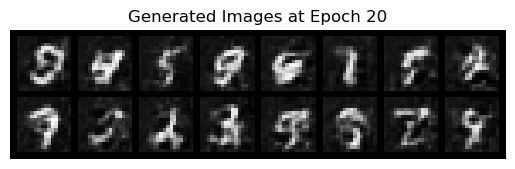
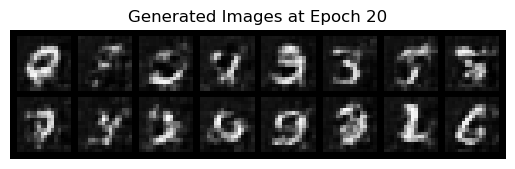
Week3 final output

diff --git a/Week3/Code2.py b/Week3/Code2.py
@@ -18,6 +18,7 @@ import matplotlib.pyplot as plt
 
 import torchvision.utils as vutils
 
+import torch.nn.utils as nn_utils
 
 
 class CustomMNISTDataset(Dataset):
@@ -30,7 +31,7 @@ class CustomMNISTDataset(Dataset):
 
         self.image_paths = []
 
-        
+
 
         for i in range(10):
 
@@ -40,17 +41,17 @@ class CustomMNISTDataset(Dataset):
 
                 self.image_paths.append(img_file)
 
-                
+
 
         print(f'Found {len(self.image_paths)} images')
 
-        
+
 
     def __len__(self):
 
         return len(self.image_paths)
 
-    
+
 
     def __getitem__(self, index):
 
@@ -58,19 +59,19 @@ class CustomMNISTDataset(Dataset):
 
         image = Image.open(img_path).convert("L")
 
-        
+
 
         if self.transform is not None:
 
             image = self.transform(image)
 
-        
 
-        return image    
 
-    
+        return image
 
-    
+
+
+
 
 class Generator(nn.Module):
 
@@ -78,29 +79,31 @@ class Generator(nn.Module):
 
         super(Generator, self).__init__()
 
-            
+
 
         self.conv1 = nn.ConvTranspose2d(z_dim, feature_g*4, kernel_size=4, stride=1, padding=0, bias=False)
 
         self.bn1 = nn.InstanceNorm2d(feature_g*4)
+        #self.gn1 = nn.GroupNorm(8, feature_g*4)
 
         self.r1 = nn.ReLU(True)
 
-        
+
 
         self.conv2 = nn.ConvTranspose2d(feature_g*4, feature_g, kernel_size=4, stride=2, padding=1, bias=False)
 
         self.bn2 = nn.InstanceNorm2d(feature_g)
+        #self.gn2 = nn.GroupNorm(8, feature_g)
 
         self.r2 = nn.ReLU(True)
 
-        
+
 
         self.conv3 = nn.ConvTranspose2d(feature_g, img_channels, kernel_size=4, stride=2, padding=1, bias=False)
 
         self.t = nn.Tanh()
 
-        
+
 
     def forward(self, x):
 
@@ -124,11 +127,11 @@ class Generator(nn.Module):
 
         return x
 
-    
 
-    
 
-    
+
+
+
 
 class Discriminator(nn.Module):
 
@@ -136,29 +139,31 @@ class Discriminator(nn.Module):
 
         super(Discriminator, self).__init__()
 
-            
+
 
         self.conv1 = nn.Conv2d(img_channels, feature_d, kernel_size=4, stride=2, padding=1, bias=False)
 
         self.bn1 = nn.BatchNorm2d(feature_d)
+        #self.gn1 = nn.GroupNorm(2, feature_d)
 
         self.r1 = nn.LeakyReLU(True)
 
-        
+
 
         self.conv2 = nn.Conv2d(feature_d, feature_d*4, kernel_size=4, stride=2, padding=1, bias=False)
 
         self.bn2 = nn.BatchNorm2d(feature_d*4)
+        #self.gn2 = nn.GroupNorm(2, feature_d*4)
 
         self.r2 = nn.ReLU(True)
 
-        
+
 
         self.conv3 = nn.Conv2d(feature_d*4, 1, kernel_size=3, stride=2, padding=0, bias=False)
 
         self.t = nn.Sigmoid()
 
-        
+
 
     def forward(self, x):
 
@@ -181,7 +186,32 @@ class Discriminator(nn.Module):
         # print("----------------------")
 
         return x
+"""
+class Discriminator(nn.Module):
+    def __init__(self, img_channels=1, feature_d=64):
+        super(Discriminator, self).__init__()
 
+        self.conv1 = nn_utils.spectral_norm(
+            nn.Conv2d(img_channels, feature_d, kernel_size=4, stride=2, padding=1, bias=False)
+        )
+        self.r1 = nn.LeakyReLU(0.2, inplace=True)
+
+        self.conv2 = nn_utils.spectral_norm(
+            nn.Conv2d(feature_d, feature_d * 4, kernel_size=4, stride=2, padding=1, bias=False)
+        )
+        self.r2 = nn.ReLU(True)
+
+        self.conv3 = nn_utils.spectral_norm(
+            nn.Conv2d(feature_d * 4, 1, kernel_size=3, stride=2, padding=0, bias=False)
+        )
+        self.t = nn.Sigmoid()
+
+    def forward(self, x):
+        x = self.r1(self.conv1(x))
+        x = self.r2(self.conv2(x))
+        x = self.t(self.conv3(x))
+        return x
+"""
 
 
 data_dir = './data/train/'
@@ -194,15 +224,19 @@ os.makedirs(result_dir, exist_ok=True)
 
 # 4. 하이퍼파라미터 정의
 
-batch_size = 64
+# batch_size = 64
+batch_size = 32
 
-lr = 0.0001
+# lr = 0.0001
+lr = 0.0002
 
-z_dim = 100
+# z_dim = 100
+z_dim = 25
 
+# device = "cuda" if torch.cuda.is_available() else "cpu"
 device = "cuda" if torch.cuda.is_available() else "cpu"
 
-epochs = 20  # 훈련 에포크 수
+epochs = 100  # 훈련 에포크 수
 
 
 
@@ -276,6 +310,8 @@ def show_generated_images(generator, num_images=64, epoch=0):
 
         plt.title(f'Generated Images at Epoch {epoch}')
 
+        plt.show()
+
         plt.savefig(f'{result_dir}image.png', pad_inches=0.1, bbox_inches='tight')
 
         plt.close()
@@ -294,7 +330,7 @@ for epoch in range(epochs):
 
         batch_size = real.shape[0]
 
-        
+
 
         ### (a) 판별자 훈련 (진짜 이미지)
 
@@ -302,7 +338,7 @@ for epoch in range(epochs):
 
         fake = gen(noise)
 
-        
+
 
         # 진짜 이미지 판별
 
@@ -310,7 +346,7 @@ for epoch in range(epochs):
 
         loss_disc_real = bce_loss(disc_real, torch.ones_like(disc_real))
 
-        
+
 
         # 가짜 이미지 판별
 
@@ -318,7 +354,7 @@ for epoch in range(epochs):
 
         loss_disc_fake = bce_loss(disc_fake, torch.zeros_like(disc_fake))
 
-        
+
 
         loss_disc = (loss_disc_real + loss_disc_fake) / 2
 
@@ -328,7 +364,7 @@ for epoch in range(epochs):
 
         opt_disc.step()
 
-        
+
 
         ### (b) 생성자 훈련 (가짜 이미지)
 
@@ -336,7 +372,7 @@ for epoch in range(epochs):
 
         loss_gen = bce_loss(output, torch.ones_like(output))
 
-        
+
 
         opt_gen.zero_grad()
 
@@ -344,14 +380,14 @@ for epoch in range(epochs):
 
         opt_gen.step()
 
-        
 
-        if batch_idx % 10 == 0:
+
+        if batch_idx % 100 == 0:
 
             print(f"Epoch [{epoch+1}/{epochs}] Batch {batch_idx}/{len(train_dataloader)} "
 
                   f"Loss D: {loss_disc:.4f}, Loss G: {loss_gen:.4f}")
 
-        
+
 
             show_generated_images(gen, num_images=16, epoch=epoch+1)
